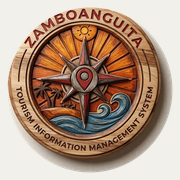
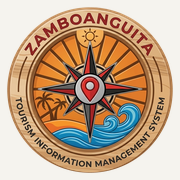
New seal for the tab, a title bar, and a destinations grid that uses the width
The uploaded seal replaces the earlier one across favicon.ico, the 96 and
192 PNGs and the iOS icon. It arrived as a JPG with its transparency drawn
in as a checkerboard - real pixels, not alpha - so using it directly would
have put a grey check pattern around the disc in the tab. The disc is found
by saturation instead, which separates wood and sea from a grey backdrop
where a colour-distance test trips on the checks, then fitted to a circle
and masked. Centre and radius came out with two pixels of spread across the
rows sampled.

Above the header, a slim bar states the system's name once with the seal
beside it: 45px on desktop, 38px on a phone, and it scrolls away rather
than taking up room in the sticky header.

The destinations section now uses the width the rail used to occupy. Three
columns across a full-width page left the cards nearly 600px wide; there is
a fourth column from 1280px up, and the heading, filters and cards sit in
the same 1600px container as the wordmark.

Aligning them turned up a real mismatch: the header's gutter sits inside
its container while the sections' sat outside, so on a wide screen the
cards started 40px further in than the wordmark. Both now put the gutter
inside, and the sections moved from md:px-12 to the header's md:px-10.

The verification harness was rebuilt too, and that mattered. Its stylesheet
was a Tailwind build from an earlier session, so classes added since -
[…]

diff --git a/Zamboanguita-project/index.html b/Zamboanguita-project/index.html
@@ -325,6 +325,17 @@ body { overflow-x: hidden; }
 
 <div class="content-shell min-h-screen flex flex-col">
 
+    <!-- The system's name, stated once. Deliberately slim: it is a title, not a
+         banner, so it scrolls away and leaves the sticky header to do the work. -->
+    <div class="bg-surface-container-low border-b border-outline-variant/15">
+        <div class="max-w-[1600px] mx-auto flex items-center gap-2.5 px-5 sm:px-6 md:px-10 py-1.5 sm:py-2">
+            <img src="favicon-96.png" alt="" width="24" height="24" class="w-6 h-6 sm:w-7 sm:h-7 shrink-0 rounded-full"/>
+            <p class="text-[10px] sm:text-[11px] font-bold uppercase tracking-[0.12em] text-on-surface-variant leading-tight">
+                Zamboanguita Tourism Information Management System
+            </p>
+        </div>
+    </div>
+
     <!-- The site's navigation. It was a rail down the side when this page had
          several views to switch between; with browsing and history as ordinary
          pages, a header says the same thing and gives the destinations the
@@ -376,17 +387,24 @@ body { overflow-x: hidden; }
                     <div class="absolute inset-0 bg-gradient-to-t from-background via-background/40 to-transparent"></div>
                     <div class="absolute inset-0 bg-black/30"></div>
                 </div>
-                <div class="relative z-10 px-5 sm:px-6 md:px-12 max-w-3xl w-full">
+                <div class="relative z-10 w-full">
+                  <div class="max-w-[1600px] mx-auto px-5 sm:px-6 md:px-10">
+                    <div class="max-w-3xl">
                     <h2 class="rise text-[2rem] sm:text-4xl md:text-6xl font-display font-black tracking-tight sm:tracking-tighter leading-[1.05] sm:leading-[0.95] text-white mb-3 break-words" style="--rise-delay:.12s">
                         Welcome to <span class="text-gradient">ZAMBOANGUITA.</span>
                     </h2>
                     <p class="rise text-base md:text-lg text-white/80 max-w-xl leading-relaxed" style="--rise-delay:.26s">
                         Experience the beauty and the hidden gems of Zamboanguita.
                     </p>
+                    </div>
+                  </div>
                 </div>
             </section>
 
-            <section class="px-5 sm:px-6 md:px-12 py-8 sm:py-10 bg-surface-container-low">
+            <section class="py-8 sm:py-10 bg-surface-container-low">
+              <!-- Same container AND the same gutter as the header, so the heading,
+                   the filters and the cards line up with the wordmark at any width. -->
+              <div class="max-w-[1600px] mx-auto px-5 sm:px-6 md:px-10">
                 <h2 class="rise text-3xl md:text-4xl font-display font-bold tracking-tight text-on-surface mb-2" style="--rise-delay:.34s">Tourist Spots &amp; Accommodations</h2>
                 <p class="rise text-on-surface-variant mb-6" style="--rise-delay:.42s">Browse everything the municipality has to offer.</p>
 
@@ -411,7 +429,10 @@ body { overflow-x: hidden; }
                 </div>
                 <p id="spotsResultCount" class="text-xs text-on-surface-variant mb-6 uppercase tracking-widest font-bold"></p>
 
-                <div id="spotsContainer" class="grid grid-cols-1 sm:grid-cols-2 xl:grid-cols-3 gap-4 sm:gap-6"></div>
+                <!-- With the rail gone there is room for a fourth column; three
+                     across a full-width page left the cards oddly wide. -->
+                <div id="spotsContainer" class="grid grid-cols-1 sm:grid-cols-2 lg:grid-cols-3 xl:grid-cols-4 gap-4 sm:gap-6"></div>
+              </div>
             </section>
 
         </div>

diff --git a/Zamboanguita-project/src/history.html b/Zamboanguita-project/src/history.html
@@ -325,6 +325,17 @@ body { overflow-x: hidden; }
 
 <div class="content-shell min-h-screen flex flex-col">
 
+    <!-- The system's name, stated once. Deliberately slim: it is a title, not a
+         banner, so it scrolls away and leaves the sticky header to do the work. -->
+    <div class="bg-surface-container-low border-b border-outline-variant/15">
+        <div class="max-w-[1600px] mx-auto flex items-center gap-2.5 px-5 sm:px-6 md:px-10 py-1.5 sm:py-2">
+            <img src="../favicon-96.png" alt="" width="24" height="24" class="w-6 h-6 sm:w-7 sm:h-7 shrink-0 rounded-full"/>
+            <p class="text-[10px] sm:text-[11px] font-bold uppercase tracking-[0.12em] text-on-surface-variant leading-tight">
+                Zamboanguita Tourism Information Management System
+            </p>
+        </div>
+    </div>
+
     <!-- The site's navigation. It was a rail down the side when this page had
          several views to switch between; with browsing and history as ordinary
          pages, a header says the same thing and gives the destinations the
@@ -368,8 +379,8 @@ body { overflow-x: hidden; }
 
     <main class="flex-1">
 
-        <section class="px-5 sm:px-6 md:px-12 pt-10 sm:pt-14 pb-0">
-            <div class="max-w-6xl mx-auto">
+        <section class="pt-10 sm:pt-14 pb-0">
+            <div class="max-w-6xl mx-auto px-5 sm:px-6 md:px-10">
                 <a href="../index.html" class="inline-flex items-center gap-1.5 text-xs font-bold uppercase tracking-widest text-on-surface-variant hover:text-primary transition-colors min-h-[44px]">
                     <span class="material-symbols-outlined !text-lg">arrow_back</span> Back to destinations
                 </a>
@@ -380,8 +391,8 @@ body { overflow-x: hidden; }
                  Sits below the destinations, as the third section of the main
                  page. The Cebuano phrases are the point of the story, so they
                  are marked rather than buried in the paragraph. -->
-            <section class="px-5 sm:px-6 md:px-12 py-10 sm:py-16 bg-surface">
-                <div class="max-w-6xl mx-auto grid grid-cols-1 lg:grid-cols-2 gap-8 lg:gap-14 items-center">
+            <section class="py-10 sm:py-16 bg-surface">
+                <div class="px-5 sm:px-6 md:px-10 max-w-6xl mx-auto grid grid-cols-1 lg:grid-cols-2 gap-8 lg:gap-14 items-center">
 
                     <div class="order-2 lg:order-1">
                         <div class="w-16 h-1 bg-primary mb-6 sm:mb-8"></div>
